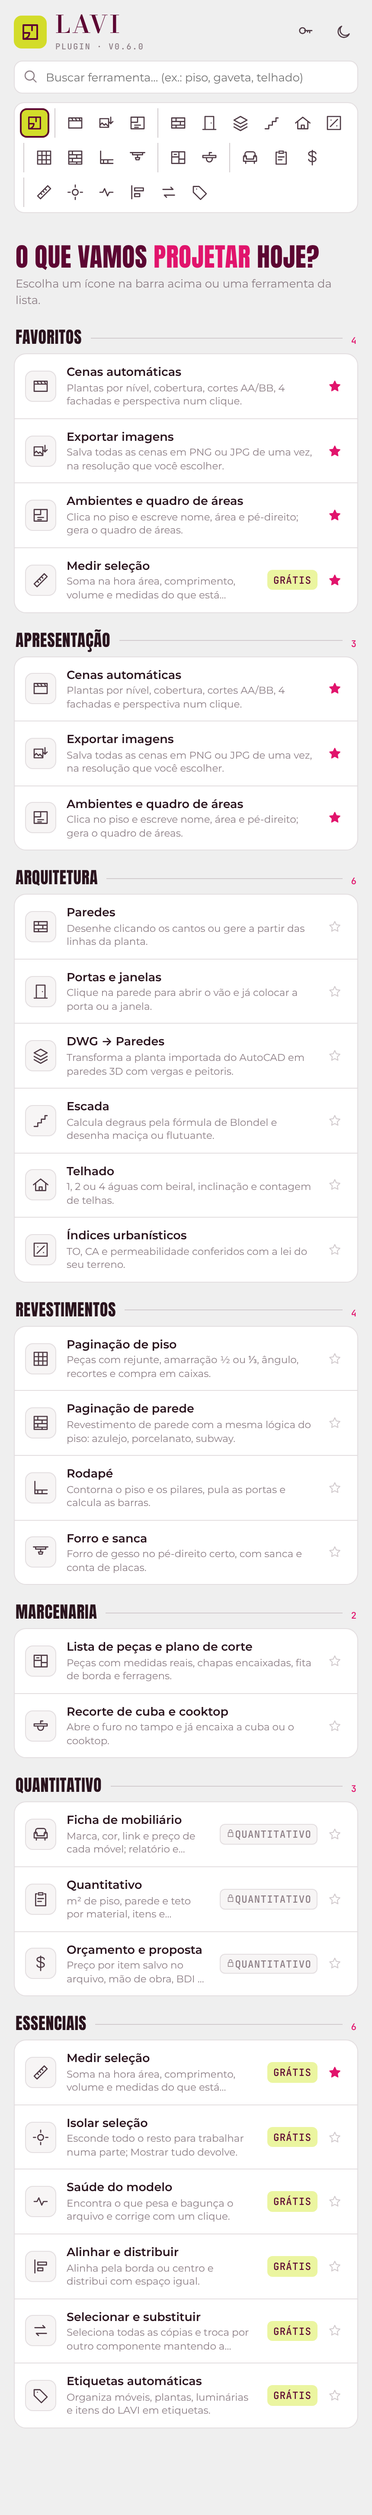
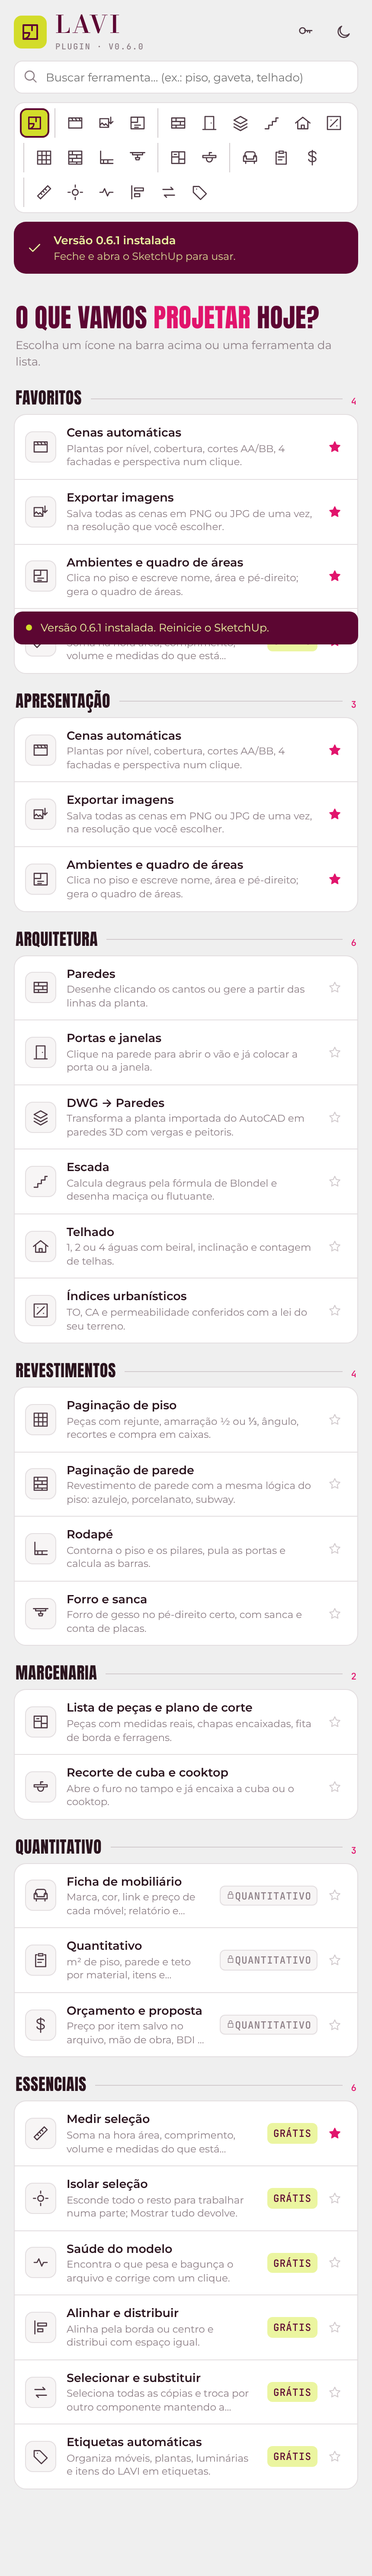
v0.6.1: botão de atualizar sempre visível e instalação em um clique
- Updater guarda o último aviso e confere de novo ao abrir o painel
- Barra Nova versão em todas as telas, instala direto ao clicar
- Prints atualizados

Claude-Session: https://claude.ai/code/session_01P8LYVnPGxSKSj2rbD9jqY5

diff --git a/lavi_plugin/ui/index.html b/lavi_plugin/ui/index.html
@@ -115,7 +115,7 @@ main{flex:1;overflow-y:auto;padding:4px 16px 100px}
 .step .n{font:500 10px var(--mono);color:var(--accent-text)}
 .step b{font-size:12px;font-weight:600;line-height:1.2}
 
-.banner{display:flex;gap:12px;align-items:center;background:var(--mul);color:var(--tidal);border-radius:var(--r);padding:12px 14px;margin-top:14px}
+.banner{display:flex;margin:0 16px 10px!important;gap:12px;align-items:center;background:var(--mul);color:var(--tidal);border-radius:var(--r);padding:12px 14px;margin-top:14px}
 .banner b{display:block;font-weight:600}
 .banner p{margin:0;font-size:12px;opacity:.85}
 .banner button{margin-left:auto;background:var(--tidal);color:var(--mul);border-radius:8px;padding:8px 12px;font-weight:700;font-size:12px;white-space:nowrap}
@@ -276,6 +276,7 @@ textarea.ta{width:100%;min-height:70px;border:1px solid var(--line);border-radiu
   </header>
   <div class="search"><span id="sIcon"></span><input id="q" type="search" placeholder="Buscar ferramenta… (ex.: piso, gaveta, telhado)" autocomplete="off"></div>
   <nav class="tabs" id="tabs" aria-label="Ferramentas"></nav>
+  <div id="updbar"></div>
   <div class="railname" id="railname"></div>
   <main id="main"></main>
   <div class="actions" id="actions" hidden></div>
@@ -898,7 +899,6 @@ const pkgName = id => ((S.state.packages||[]).find(p=>p.id===id)||{}).name || id
 function viewHome(){
   const favs=(S.state.favorites||[]).map(toolById).filter(Boolean);
   let h=`<div class="view"><div class="hello"><h1>O que vamos <mark>projetar</mark> hoje?</h1><p>Escolha um ícone na barra acima ou uma ferramenta da lista.</p></div>`;
-  if(S.update&&S.update.state==='available') h+=`<div class="banner">${ic('sparkle')}<div><b>Versão ${esc(S.update.version)} disponível</b><p>${esc((S.update.notes||[]).slice(0,2).join(' · ')||'Melhorias e correções')}</p></div><button data-upd="check">Atualizar</button></div>`;
   if(favs.length) h+=`<div class="sec"><h2>Favoritos</h2><span class="cota"></span><span class="n">${favs.length}</span></div><div class="grid">${favs.map(toolCard).join('')}</div>`;
   GROUPS.forEach(g=>{ const list=toolsOf(g[0]); if(!list.length) return;
     h+=`<div class="sec" id="g-${g[0]}"><h2>${g[1]}</h2><span class="cota"></span><span class="n">${list.length}</span></div><div class="grid">${list.map(toolCard).join('')}</div>`; });
@@ -977,9 +977,18 @@ function viewLicense(){
 const updMsg = u => ({available:`Versão ${u.version} disponível.`,downloading:`Baixando a versão ${u.version}…`,installed:`Versão ${u.version} instalada. Reinicie o SketchUp.`,latest:`Você está na versão mais nova (${u.version}).`,error:u.msg}[u.state]||'');
 
 /* ---------------- ciclo de renderização ---------------- */
+function renderUpdate(){
+  const u=S.update, el=$('#updbar'); if(!el) return;
+  if(!u||!['available','downloading','installed','error'].includes(u.state)||(u.state==='error'&&!S.updClicked)){ el.innerHTML=''; return; }
+  const busy=u.state==='downloading', done=u.state==='installed';
+  const title= done?`Versão ${esc(u.version)} instalada`: busy?`Baixando a versão ${esc(u.version)}…`: u.state==='error'?'Não deu para atualizar':`Nova versão ${esc(u.version)}`;
+  const sub= done?'Feche e abra o SketchUp para usar.': u.state==='error'?esc(u.msg): esc((u.notes||[]).slice(0,2).join(' · ')||'Melhorias e correções');
+  el.innerHTML=`<div class="banner">${ic(done?'check':'sparkle')}<div><b>${title}</b><p>${sub}</p></div>${done||busy?'':`<button data-upd="install">${u.state==='error'?'Tentar de novo':'Atualizar'}</button>`}</div>`;
+}
 function render(){
   if(!S.state) return;
   $('#ver').textContent = 'plugin · v' + S.state.version;
+  renderUpdate();
   renderTabs();
   const m=$('#main'); let html; const acts=$('#actions');
   if(S.q) html=viewSearch(S.q);
@@ -1062,7 +1071,12 @@ document.addEventListener('click', e=>{
     if(f&&f.min!=null) v=Math.max(f.min,v); if(f&&f.max!=null) v=Math.min(f.max,v); setParam(k,v,true); return; }
   if(d.preset!==undefined){ const o=JSON.parse(d.fk); Object.assign(S.params[S.tool],o); store.set('p:'+S.tool,S.params[S.tool]); refreshTool(); return; }
   if(d.act){ runAct(d.act,false,el.classList.contains('btn')?el:null); return; }
-  if(d.upd){ if(window.__MOCK__){ S.update={state:'latest',version:S.state.version}; render(); } else send('update',d.upd); toast('Procurando atualização…'); return; }
+  if(d.upd){
+    if(d.upd==='install'){ S.updClicked=true; S.update=Object.assign({},S.update,{state:'downloading'}); renderUpdate(); }
+    else toast('Procurando atualização…');
+    if(window.__MOCK__){ const v=(S.update||{}).version||S.state.version; setTimeout(()=>PLN.on('update', d.upd==='install'?{state:'installed',version:v}:{state:'latest',version:S.state.version}), 600); }
+    else send('update',d.upd);
+    return; }
   if(d.tag){ S.params.auto_tags=S.params.auto_tags||{}; call('auto_tags','toggle',{tag:d.tag}).then(r=>{ S.results.auto_tags=r; refreshTool(); }); return; }
   if(d.badd!==undefined){ const r=S.results.budget; r.lines.push({id:'extra:'+Date.now(),grupo:'Serviços',desc:'Novo serviço',qty:1,un:'vb',preco:0}); refreshTool(); return; }
   if(el.id==='btnTheme'){ const dark=document.documentElement.dataset.theme!=='dark'; setTheme(dark?'dark':'light'); send('theme',dark?'dark':'light'); return; }
@@ -1098,7 +1112,7 @@ function setTheme(t){ document.documentElement.dataset.theme=t; $('#btnTheme').i
 /* ---------------- API chamada pelo Ruby ---------------- */
 window.PLN = {
   init(state){
-    S.state=state; setTheme(state.theme||'light');
+    S.state=state; S.update=state.update||null; setTheme(state.theme||'light');
     $('#btnLic').innerHTML=ic('key'); $('#sIcon').innerHTML=ic('search'); $('#logo').innerHTML=ic('lavi');
     if(state.open && toolById(state.open)) go('tool:'+state.open, state.open);
     else if(state.open==='license') go('license');
@@ -1108,7 +1122,7 @@ window.PLN = {
   on(ev, data){
     if(ev==='result'){ const id=data.tool; S.results[id]=data; if(S.tool===id){ refreshTool(); } toast(data.msg); }
     else if(ev==='favorites'){ S.state.favorites=data; }
-    else if(ev==='update'){ S.update=data; if(S.route==='home'||S.route==='license') render(); if(data.state!=='latest') toast(updMsg(data)); }
+    else if(ev==='update'){ S.update=data; renderUpdate(); if(S.route==='license') render(); if(data.state==='installed'||(data.state==='error'&&S.updClicked)) toast(updMsg(data)); }
     else if(ev==='license'){ toast(data.msg); }
     else if(ev==='open'){ if(data.id) go('tool:'+data.id, data.id); }
   }
@@ -1144,7 +1158,7 @@ const MOCK = {
     ['replace','Selecionar e substituir','base','base','Seleciona todas as cópias e troca por outro componente mantendo a posição.',['Selecione um componente','Selecionar iguais','Escolha o novo e troque']],
     ['auto_tags','Etiquetas automáticas','base','base','Organiza móveis, plantas, luminárias e itens do LAVI em etiquetas.',['Organizar','Ligue e desligue cada etiqueta']]
   ],
-  state(){ return { name:'LAVI', version:'0.6.0', dev:false, favorites:['scenes','export_images','room_tags','measure'], theme:'light', auto_update:true,
+  state(){ return { name:'LAVI', version:'0.6.0', dev:false, update:{state:'available',version:'0.6.1',notes:['Correções nas cenas automáticas','Novo ícone de corte']}, favorites:['scenes','export_images','room_tags','measure'], theme:'light', auto_update:true,
     packages:[{id:'base',name:'Essencial',free:true,active:true},{id:'arq',name:'Arquitetura',active:true},{id:'rev',name:'Revestimentos',active:true},{id:'pres',name:'Apresentação',active:true},{id:'marc',name:'Marcenaria',active:true},{id:'quant',name:'Quantitativo',active:false}],
     tools:this.tools.map(t=>({id:t[0],name:t[1],tab:t[2],package:t[3],desc:t[4],steps:t[5],status:'ready',locked:t[3]==='quant'})) }; },
   run(tool, action, p){

diff --git a/dev/preview.js b/dev/preview.js
@@ -29,6 +29,7 @@ const url = 'file://' + path.join(__dirname, '..', 'lavi_plugin', 'ui', 'index.h
   const TABS = { walls: 'arq', openings: 'arq', stairs: 'arq', roofs: 'arq', dwg_walls: 'arq', urban_index: 'arq', tiling: 'rev', wall_tiling: 'rev', baseboard: 'rev', ceiling: 'rev', scenes: 'pres', export_images: 'pres', room_tags: 'pres', furniture: 'quant', measure: 'base', isolate: 'base', cut_list: 'marc', countertop: 'marc', takeoff: 'quant', budget: 'quant', model_health: 'base', align: 'base', replace: 'base', auto_tags: 'base' };
 
   await shot('01-inicio');
+  await page.click('[data-upd="install"]'); await page.waitForTimeout(900); await shot('01b-atualizado');
   await shot('02-inicio-lista', true);
 
   await tool('scenes'); await page.click('[data-act="create"]'); await shot('03-cenas', true);

diff --git a/lavi_plugin/core/updater.rb b/lavi_plugin/core/updater.rb
@@ -16,6 +16,8 @@ module LAVIStudio
 
       @busy = false
       @last = nil
+      @state = nil
+      @checked_at = nil
 
       module_function
 
@@ -29,6 +31,27 @@ module LAVIStudio
 
       def last
         @last
+      end
+
+      # Último aviso (o painel mostra a barra "Nova versão" mesmo se abrir depois)
+      def state
+        @state
+      end
+
+      # Ao abrir o painel: confere se ainda não conferiu na última hora
+      def check_if_stale
+        return if @checked_at && Time.now - @checked_at < 3600
+        check(false)
+      end
+
+      # Botão "Atualizar" do painel: instala direto (o clique já é a confirmação)
+      def install_now
+        if @last && newer?(@last['version'])
+          download(@last)
+        else
+          @install_after_check = true
+          check(false)
+        end
       end
 
       def newer?(remote, local = VERSION)
@@ -45,6 +68,7 @@ module LAVIStudio
           return
         end
         @busy = true
+        @checked_at = Time.now
         @req = Sketchup::Http::Request.new("#{MANIFEST_URL}?t=#{Time.now.to_i}", Sketchup::Http::GET)
         @req.start do |_r, res|
           @busy = false
@@ -64,11 +88,15 @@ module LAVIStudio
         @last = info
         if newer?(info['version'])
           notify(state: 'available', version: info['version'], notes: info['notes'] || [])
-          if manual
+          if @install_after_check
+            @install_after_check = false
+            download(info)
+          elsif manual
             ask = UI.messagebox("LAVI #{info['version']} disponível.\n\n#{Array(info['notes']).join("\n")}\n\nAtualizar agora?", MB_YESNO)
             download(info) if ask == IDYES
           end
         else
+          @install_after_check = false
           notify(state: 'latest', version: VERSION)
           UI.messagebox("Você já está na versão mais nova (#{VERSION}).") if manual
         end
@@ -101,12 +129,13 @@ module LAVIStudio
           Sketchup.install_from_archive(path)
         end
         notify(state: 'installed', version: info['version'])
-        UI.messagebox("LAVI atualizado para #{info['version']}.\nFeche e abra o SketchUp para usar a versão nova.")
+        UI.messagebox("LAVI atualizado para #{info['version']}.\nFeche e abra o SketchUp para usar a versão nova.\n(Não precisa reinstalar nada.)")
       rescue StandardError => e
         notify(state: 'error', msg: "Não consegui instalar: #{e.message}")
       end
 
       def notify(data)
+        @state = data
         Dialog.push('update', data) if defined?(Dialog)
       end
     end

diff --git a/lavi_plugin/core/dialog.rb b/lavi_plugin/core/dialog.rb
@@ -50,6 +50,7 @@ module LAVIStudio
         d.add_action_callback('update') do |_c, what|
           case what.to_s
           when 'check' then Updater.check(true)
+          when 'install' then Updater.install_now
           when 'auto_on' then Updater.set_auto(true)
           when 'auto_off' then Updater.set_auto(false)
           end
@@ -68,10 +69,12 @@ module LAVIStudio
           favorites: Helpers.favorites,
           theme: Helpers.pref('theme', 'light'),
           auto_update: Updater.auto?,
+          update: Updater.state,
           units: model_units,
           open: @open_tool
         }
         exec("PLN.init(#{JSON.generate(state)})")
+        Updater.check_if_stale if Updater.auto?
         @open_tool = nil
       end
 

diff --git a/lavi_plugin.rb b/lavi_plugin.rb
@@ -8,7 +8,7 @@ module LAVIStudio
   module Plugin
     PLUGIN_ID   = 'lavi_plugin'.freeze
     PLUGIN_NAME = 'LAVI'.freeze
-    VERSION     = '0.6.0'.freeze
+    VERSION     = '0.6.1'.freeze
 
     unless file_loaded?(__FILE__)
       ext = SketchupExtension.new(PLUGIN_NAME, File.join(PLUGIN_ID, 'main'))

diff --git a/CLAUDE.md b/CLAUDE.md
@@ -54,7 +54,7 @@ docs/                           prints das telas
 `base` Essencial (grátis) · `pres` Apresentação · `arq` Arquitetura · `rev` Revestimentos · `marc` Marcenaria · `quant` Quantitativo · chave `PRO` libera todos.
 Chave: `LAVI-<ARQ|REV|PRES|MARC|QUANT|PRO>-<5 chars>-<8 hex>`, verificador = SHA256(SECRET|pacote|serial).
 
-## Ferramentas — status (v0.5.0; nada de geometria testado por ela ainda)
+## Ferramentas — status (v0.6.1; nada de geometria testado por ela ainda)
 | id | ferramenta | pacote |
 |---|---|---|
 | walls | Paredes (clicando cantos ou de linhas selecionadas; meia-esquadria) | arq |
@@ -100,7 +100,8 @@ Padrão de atributos, copiado da estrutura de um bloco DC real (biblioteca AFC d
 Próximo nível que ela quer (imagens de referência): catálogo detalhado como as bibliotecas profissionais — portas com batente/guarnição e símbolo de abertura em planta + etiqueta (P1, medidas), tampos (frontão, saia 45°, rebaixo, cuba esculpida), módulos de lixeira, roupeiro, porta escamoteável, puxadores perfilados. Fazer um de cada vez, sempre com teste + render antes de entregar.
 
 ## Atualização automática
-- `Updater` lê `https://raw.githubusercontent.com/arqlais/plugin/HEAD/updates/latest.json` 20 s depois de abrir o SketchUp e **só avisa** no painel. Desde a v0.5 **nunca instala sozinho** (ela reclamou do SketchUp instável); instala só quando ela clica (baixa o `.rbz`, confere SHA256, `Sketchup.install_from_archive`, pede para reiniciar).
+- `Updater` lê `https://raw.githubusercontent.com/arqlais/plugin/HEAD/updates/latest.json` 20 s depois de abrir o SketchUp e de novo ao abrir o painel (se faz mais de 1 h). Guarda o aviso (`Updater.state`, vai no `send_state`) e o painel mostra a **barra "Nova versão · Atualizar" em todas as telas** (`#updbar`). Um clique (`update` → `install`) baixa, confere SHA256 e instala; depois só reiniciar o SketchUp, sem reinstalar pelo Gerenciador. Ela pediu isso: não quer ficar reinstalando.
+- Nunca instala sem clique. Desde a v0.5 **nunca instala sozinho** (ela reclamou do SketchUp instável); instala só quando ela clica (baixa o `.rbz`, confere SHA256, `Sketchup.install_from_archive`, pede para reiniciar).
 - Atenção: o LIA Render oficial e o LAVI Render dela (LIA modificado, backup no repo privado `lavi-app`, ramo `backup/lavi-render-v4`) usam a mesma pasta `thebox_render`: instalar um sobrescreve o outro.
 - Para publicar versão nova: subir `VERSION` em `lavi_plugin.rb`, `sh dev/build.sh "nota 1" "nota 2"`, commit e merge no branch padrão.
 - **Precisa de repositório público** (ou mover `updates/` para um host público, ex. o LAVI APP). Se o repo ficar privado, a atualização para de funcionar.
